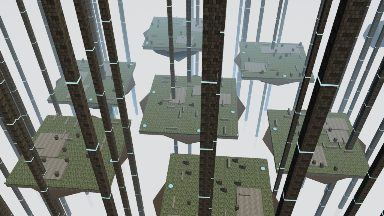
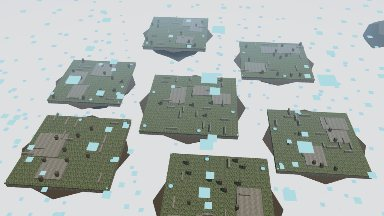
Map thumbnails retaken without the bamboo, posts and pillars, so each map's layout shows

diff --git a/index.html b/index.html
@@ -4,7 +4,7 @@
 <meta charset="utf-8">
 <meta name="viewport" content="width=device-width,initial-scale=1">
 <title>Sever</title>
-<meta name="build" content="20261113234644">
+<meta name="build" content="20261113235008">
 <link rel="icon" href="data:,">
 <script>
 // Stale-page guard (as in Splatline): if version.json names a newer build than this page, reload once.
@@ -127,12 +127,12 @@ window.severVersion.check();
 <script type="importmap">
 { "imports": {
   "three": "https://cdn.jsdelivr.net/npm/three@0.160.0/build/three.module.js",
-  "./src/main.js": "./src/main.js?v=20261113234644",
-  "./src/arena.js": "./src/arena.js?v=20261113234644",
-  "./src/fighter.js": "./src/fighter.js?v=20261113234644",
-  "./src/slice.js": "./src/slice.js?v=20261113234644",
-  "./src/audio.js": "./src/audio.js?v=20261113234644",
-  "./src/net.js": "./src/net.js?v=20261113234644"
+  "./src/main.js": "./src/main.js?v=20261113235008",
+  "./src/arena.js": "./src/arena.js?v=20261113235008",
+  "./src/fighter.js": "./src/fighter.js?v=20261113235008",
+  "./src/slice.js": "./src/slice.js?v=20261113235008",
+  "./src/audio.js": "./src/audio.js?v=20261113235008",
+  "./src/net.js": "./src/net.js?v=20261113235008"
 } }
 </script>
 </head>
@@ -274,6 +274,6 @@ window.severVersion.check();
 <div id="toast" style="opacity:0"></div>
 <div id="loading">Loading…</div>
 <noscript><p style="position:fixed;inset:0;display:flex;align-items:center;justify-content:center">Sever needs JavaScript and WebGL.</p></noscript>
-<script type="module" src="src/main.js?v=20261113234644"></script>
+<script type="module" src="src/main.js?v=20261113235008"></script>
 </body>
 </html>

diff --git a/src/main.js b/src/main.js
@@ -1,14 +1,14 @@
 import * as THREE from 'three';
-import { Arena, MAPS } from './arena.js?v=20261113234644';
-import { Fighter, PALETTE, GUARD, setMetalEnv, metalEnvFor } from './fighter.js?v=20261113234644';
-import { bakeMeshes, Pieces, Particles } from './slice.js?v=20261113234644';
-import { sfx, ensureAudio, setListener, setVolume } from './audio.js?v=20261113234644';
-import * as net from './net.js?v=20261113234644';
-import { MODES, POINT_MODES, MODE_GOAL, ModeFx, makeCrown } from './modes.js?v=20261113234644';
-import { profile, addCoins, randomLook, cleanLook, item } from './cosmetics.js?v=20261113234644';
-import { makeKillFx } from './killfx.js?v=20261113234644';
-import { makeGrapple } from './grapple.js?v=20261113234644';
-import { initShop } from './shop.js?v=20261113234644';
+import { Arena, MAPS } from './arena.js?v=20261113235008';
+import { Fighter, PALETTE, GUARD, setMetalEnv, metalEnvFor } from './fighter.js?v=20261113235008';
+import { bakeMeshes, Pieces, Particles } from './slice.js?v=20261113235008';
+import { sfx, ensureAudio, setListener, setVolume } from './audio.js?v=20261113235008';
+import * as net from './net.js?v=20261113235008';
+import { MODES, POINT_MODES, MODE_GOAL, ModeFx, makeCrown } from './modes.js?v=20261113235008';
+import { profile, addCoins, randomLook, cleanLook, item } from './cosmetics.js?v=20261113235008';
+import { makeKillFx } from './killfx.js?v=20261113235008';
+import { makeGrapple } from './grapple.js?v=20261113235008';
+import { initShop } from './shop.js?v=20261113235008';
 
 // ---------- settings ----------
 const store = {

diff --git a/src/shop.js b/src/shop.js
@@ -1,10 +1,10 @@
 // The shop screen: browse by category, try things on a turning, swinging preview fighter, buy and equip.
 import * as THREE from 'three';
-import { Fighter, PALETTE, setMetalEnv, metalEnvFor } from './fighter.js?v=20261113234644';
-import { Particles, Pieces, bakeMeshes } from './slice.js?v=20261113234644';
-import { makeKillFx } from './killfx.js?v=20261113234644';
-import { makeGrapple } from './grapple.js?v=20261113234644';
-import { CATEGORIES, CATALOG, item, profile, owns, buy, equip } from './cosmetics.js?v=20261113234644';
+import { Fighter, PALETTE, setMetalEnv, metalEnvFor } from './fighter.js?v=20261113235008';
+import { Particles, Pieces, bakeMeshes } from './slice.js?v=20261113235008';
+import { makeKillFx } from './killfx.js?v=20261113235008';
+import { makeGrapple } from './grapple.js?v=20261113235008';
+import { CATEGORIES, CATALOG, item, profile, owns, buy, equip } from './cosmetics.js?v=20261113235008';
 
 const $ = (id) => document.getElementById(id);
 const hex = (c) => '#' + c.toString(16).padStart(6, '0');

diff --git a/src/killfx.js b/src/killfx.js
@@ -1,8 +1,8 @@
 // Kill effects from the shop: what happens to someone you cut down. The body still splits along your
 // cut; the effect changes what sprays out, what the pieces leak, and what becomes of them.
 import * as THREE from 'three';
-import { Particles } from './slice.js?v=20261113234644';
-import { sfx } from './audio.js?v=20261113234644';
+import { Particles } from './slice.js?v=20261113235008';
+import { sfx } from './audio.js?v=20261113235008';
 
 const R = () => Math.random() - 0.5;
 

diff --git a/src/fighter.js b/src/fighter.js
@@ -2,7 +2,7 @@
 // cleanly), posed each frame with a long-striding run cycle, two-bone IK for arms and legs, and a sword
 // driven by the swing input (s.x, s.y).
 import * as THREE from 'three';
-import { item, cleanLook } from './cosmetics.js?v=20261113234644';
+import { item, cleanLook } from './cosmetics.js?v=20261113235008';
 
 // Every material that can end up on a sliced piece is registered here, so a piece's single mesh can use
 // one shared material array and keep each triangle's look.

diff --git a/src/slice.js b/src/slice.js
@@ -2,7 +2,7 @@
 // and turn each side into a tumbling rigid piece. Every original part is convex, so the cut face of a part
 // is the convex hull of the points where the plane crossed it.
 import * as THREE from 'three';
-import { MATS } from './fighter.js?v=20261113234644';
+import { MATS } from './fighter.js?v=20261113235008';
 
 let partSeq = 1;
 const _v = new THREE.Vector3(), _n = new THREE.Vector3(), _nm = new THREE.Matrix3();
